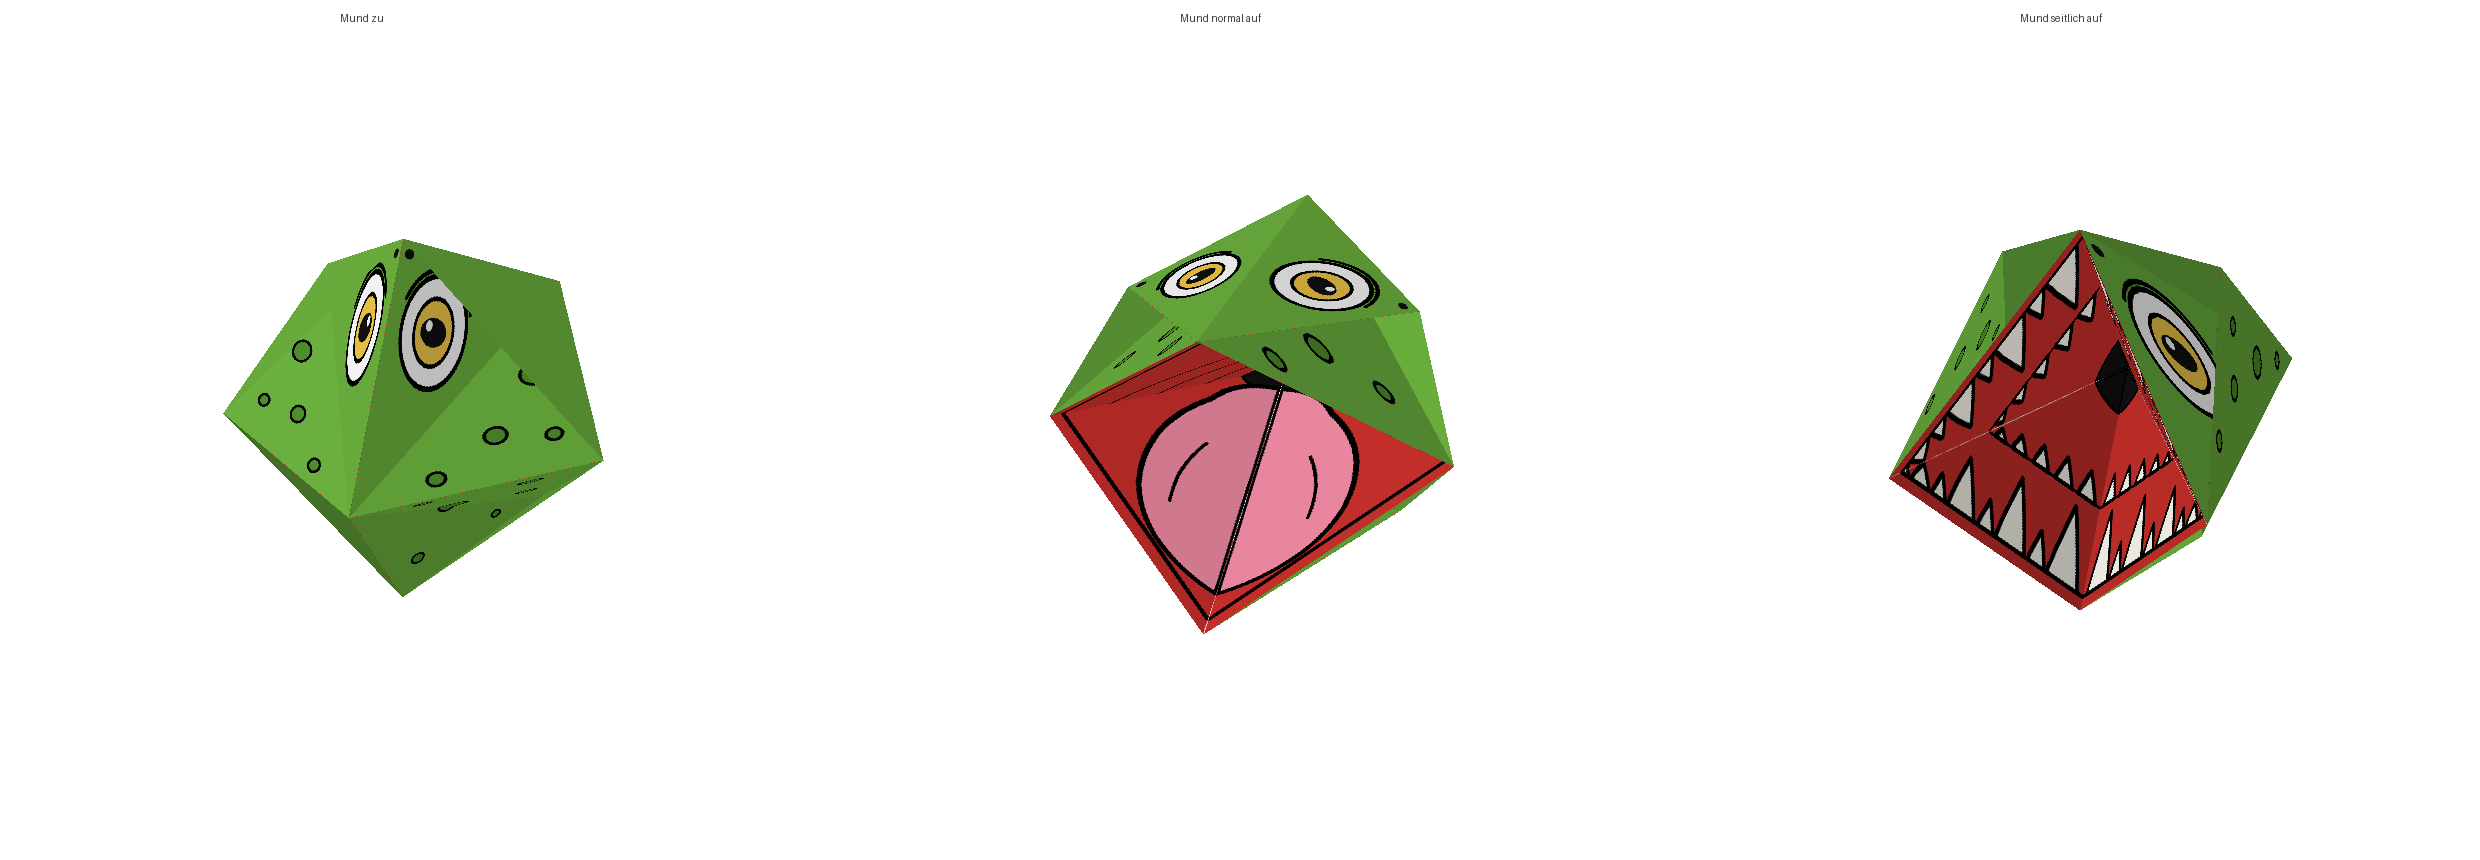
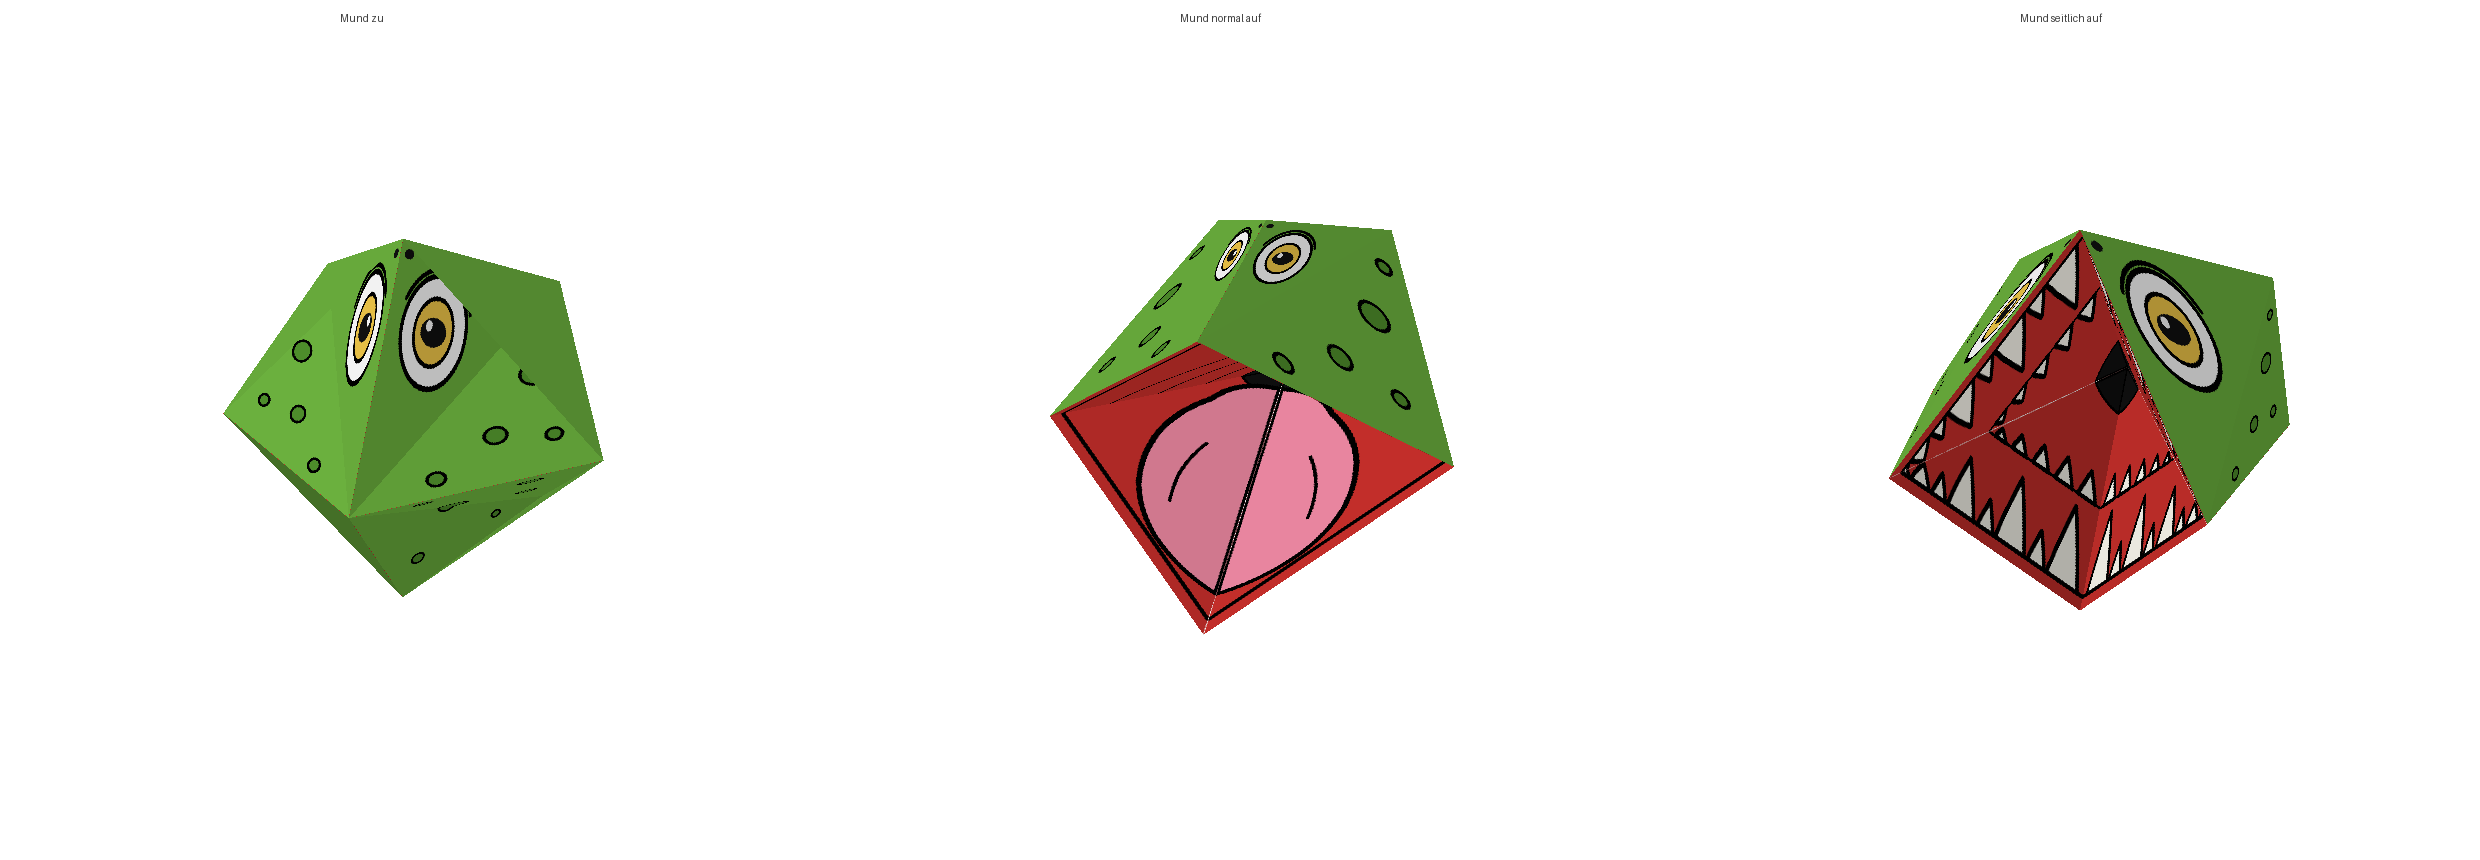
3D-Vorschau: Kieferrücken mittig – Papierkanten benachbarter Taschen stoßen in der Mitte an
Claude-Session: https://claude.ai/code/session_01X3rWt2Fnqfe8kmvvCTH6eF

diff --git a/vorschau3d.py b/vorschau3d.py
@@ -56,33 +56,32 @@ def modell(oeffnung):
         return (sgn(p[0]), 0.0, 0.0) if normal else (0.0, -sgn(p[1]), 0.0)
 
     def T(a): return v_add(v_scale(a, 0.7), (0, 0, 0.6))
-    def Hf(a): return v_add(v_scale(a, 0.9), (0, 0, -1.4))
+    def Hf(a, b): return v_add(v_add(v_scale(a, 0.75), v_scale(b, 0.5)), (0, 0, -1.3))   # Papierecke, je Tasche seitlich
     def K(b): return b
-    def R(a, b): return v_add(v_add(v_scale(a, 0.55), v_scale(b, 0.75)), (0, 0, -0.5))
+    def R(a): return v_add(v_scale(a, 0.95), (0, 0, -0.45))                              # Kieferrücken, mittig
 
     faces = []
     for fl in lay.flaps:
         if fl.oeffnung != oeffnung:
             continue
         a, b = A(fl.spitze), B(fl.spitze)
-        t, h, k, r = T(a), Hf(a), K(b), R(a, b)
+        t, h, k, r = T(a), Hf(a, b), K(b), R(a)
         faces.append(([fl.winkel, fl.spitze, fl.rachen], [k, t, C], "innen"))
         pk = next(p for p in lay.pockets if p.spitze == fl.spitze)
         for name, hf in pk.halves.items():
             if hf.mitte == fl.winkel:                         # Hälfte an der Lippe dieser Klappe
                 faces.append(([hf.ecke, hf.mitte, hf.spitze], [h, k, t], "aussen"))
-            else:                                             # die andere Hälfte, zum seitlichen First
-                faces.append(([hf.ecke, hf.mitte, hf.spitze], [h, r, t], "aussen"))
-        faces.append((None, [h, r, k], "haut"))               # Seite zwischen First- und Lippenhälfte
-    # Rückseite je Kiefer und zwischen den Kiefern (nur von hinten sichtbar)
-    for sa in (-1, 1):
-        a = (0.0, sa, 0.0) if normal else (sa, 0.0, 0.0)
-        h = Hf(a)
-        r1, r2 = (R(a, (-1, 0, 0)), R(a, (1, 0, 0))) if normal else (R(a, (0, -1, 0)), R(a, (0, 1, 0)))
-        faces.append((None, [h, r1, r2], "haut"))
-    hN, hS = (Hf((0, 1, 0)), Hf((0, -1, 0))) if normal else (Hf((1, 0, 0)), Hf((-1, 0, 0)))
-    for k in ([(-1, 0, 0), (1, 0, 0)] if normal else [(0, -1, 0), (0, 1, 0)]):
-        faces.append((None, [hN, hS, k], "haut"))
+            else:                                             # die andere Hälfte: Kante auf dem Kieferrücken, mittig –
+                faces.append(([hf.ecke, hf.mitte, hf.spitze], [h, r, t], "aussen"))   # dort stößt die Nachbartasche an
+    # Rückseite: je Kiefer zwischen den beiden Papierecken, und zwischen den Kiefern
+    ax = [(0.0, 1.0, 0.0), (0.0, -1.0, 0.0)] if normal else [(1.0, 0.0, 0.0), (-1.0, 0.0, 0.0)]
+    bx = [(-1.0, 0.0, 0.0), (1.0, 0.0, 0.0)] if normal else [(0.0, -1.0, 0.0), (0.0, 1.0, 0.0)]
+    for a in ax:
+        faces.append((None, [Hf(a, bx[0]), R(a), Hf(a, bx[1])], "haut"))
+    for b in bx:
+        faces.append((None, [Hf(ax[0], b), K(b), Hf(ax[1], b)], "haut"))
+    faces.append((None, [Hf(ax[0], bx[0]), Hf(ax[0], bx[1]), Hf(ax[1], bx[1])], "haut"))
+    faces.append((None, [Hf(ax[0], bx[0]), Hf(ax[1], bx[1]), Hf(ax[1], bx[0])], "haut"))
     return faces
 
 
